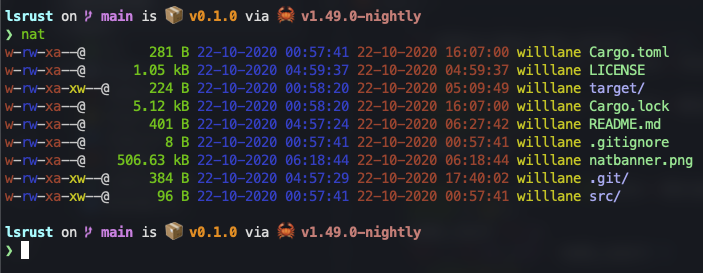
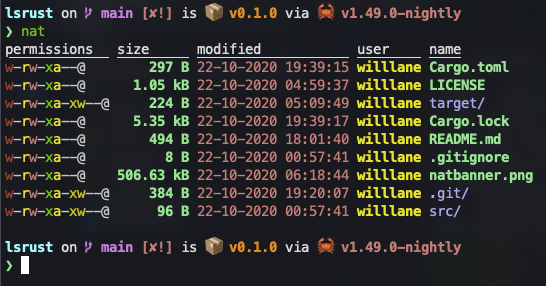
added bold text and helper text

diff --git a/src/main.rs b/src/main.rs
@@ -4,6 +4,7 @@ use std::{env, fs, io};
 use termion::color;
 use users::{get_current_uid, get_user_by_uid};
 extern crate pretty_bytes;
+use ansi_term::Style;
 use pretty_bytes::converter::convert;
 
 fn main() -> io::Result<()> {
@@ -24,7 +25,39 @@ fn main() -> io::Result<()> {
     };
   }
 
-  for e in entries {
+  print!("{}", Style::new().underline().paint("permissions"));
+  for _ in 0..2 {
+    print!("{}", Style::new().underline().paint(" "))
+  }
+  print!(" {}", Style::new().underline().paint("size"));
+  for _ in 0..(size_count - 4) {
+    print!("{}", Style::new().underline().paint(" "))
+  }
+
+  print!(" {}", Style::new().underline().paint("modified"));
+
+  for _ in 0..11 {
+    print!("{}", Style::new().underline().paint(" "))
+  }
+
+  print!(" {}", Style::new().underline().paint("user"));
+
+  for _ in 0..(get_user_by_uid(get_current_uid())
+    .unwrap()
+    .name()
+    .to_str()
+    .unwrap()
+    .len()
+    - 4)
+  {
+    print!("{}", Style::new().underline().paint(" "))
+  }
+
+  print!(" {}", Style::new().underline().paint("name"));
+
+  print!("\n");
+
+  for e in &entries {
     let meta = fs::metadata(&e)?;
     let mode = meta.mode();
     let user_has_write_access = mode & 0o200;
@@ -40,15 +73,19 @@ fn main() -> io::Result<()> {
       mode_count += 2;
     }
     if user_has_read_write_access == 384 {
-      print!("{}", color::Fg(color::LightBlue));
-      print!("rw");
+      print!("{}", color::Fg(color::LightYellow));
+      print!("r");
+      print!("{}", color::Fg(color::LightRed));
+      print!("w");
       print!("{}", color::Fg(color::White));
       print!("-");
       mode_count += 3;
     }
     if group_has_read_access == 32 {
-      print!("{}", color::Fg(color::Red));
-      print!("xa");
+      print!("{}", color::Fg(color::Green));
+      print!("x");
+      print!("{}", color::Fg(color::LightYellow));
+      print!("a");
       print!("{}", color::Fg(color::White));
       print!("-");
       mode_count += 3;
@@ -71,14 +108,8 @@ fn main() -> io::Result<()> {
       print!(" ")
     }
     print!("{}", color::Fg(color::Green));
-    print!(" {}", convert(fs::metadata(&e)?.size() as f64));
+    print!(" {}", Style::new().bold().paint(convert(fs::metadata(&e)?.size() as f64)));
 
-    if let Ok(time) = e.metadata()?.created() {
-      print!("{}", color::Fg(color::LightBlue));
-      let datetime: DateTime<Utc> = time.into();
-      print!(" {} ", datetime.format("%d-%m-%Y"));
-      print!("{}", datetime.format("%T"))
-    }
     if let Ok(time) = e.metadata()?.modified() {
       print!("{}", color::Fg(color::LightRed));
       let datetime: DateTime<Utc> = time.into();
@@ -89,11 +120,11 @@ fn main() -> io::Result<()> {
     print!("{}", color::Fg(color::Yellow));
     print!(
       " {} ",
-      get_user_by_uid(get_current_uid())
-        .unwrap()
-        .name()
-        .to_str()
-        .unwrap()
+      Style::new().bold().paint(get_user_by_uid(get_current_uid())
+      .unwrap()
+      .name()
+      .to_str()
+      .unwrap())
     );
 
     print!("{}", color::Fg(color::White));
@@ -102,7 +133,7 @@ fn main() -> io::Result<()> {
       println!("{}/", &e.file_name().unwrap().to_str().unwrap());
     } else {
       print!("{}", color::Fg(color::LightGreen));
-      println!("{}", &e.file_name().unwrap().to_str().unwrap());
+      println!("{}", Style::new().bold().paint(e.file_name().unwrap().to_str().unwrap()));
     }
   }
   Ok(())
